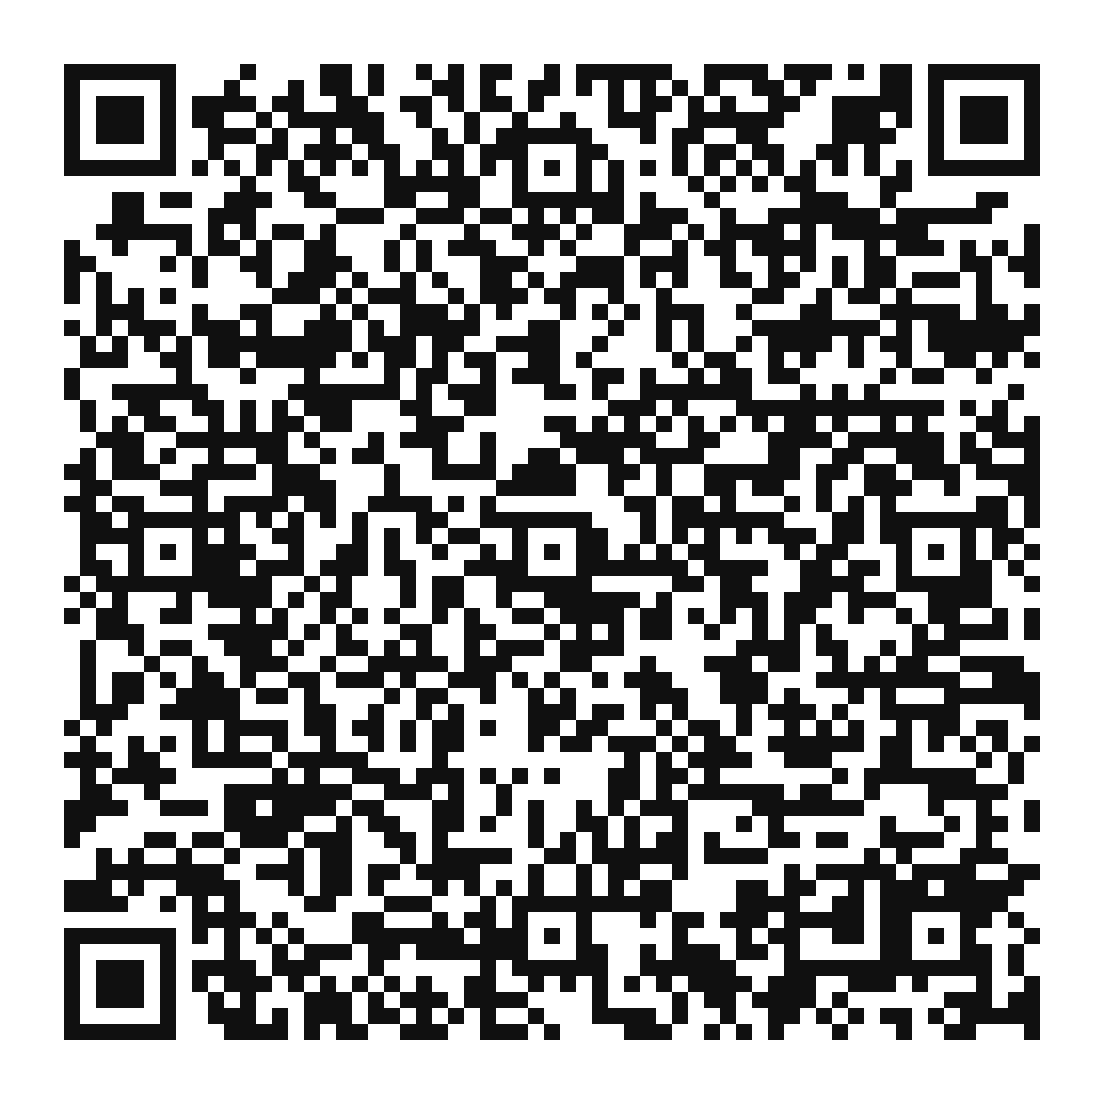
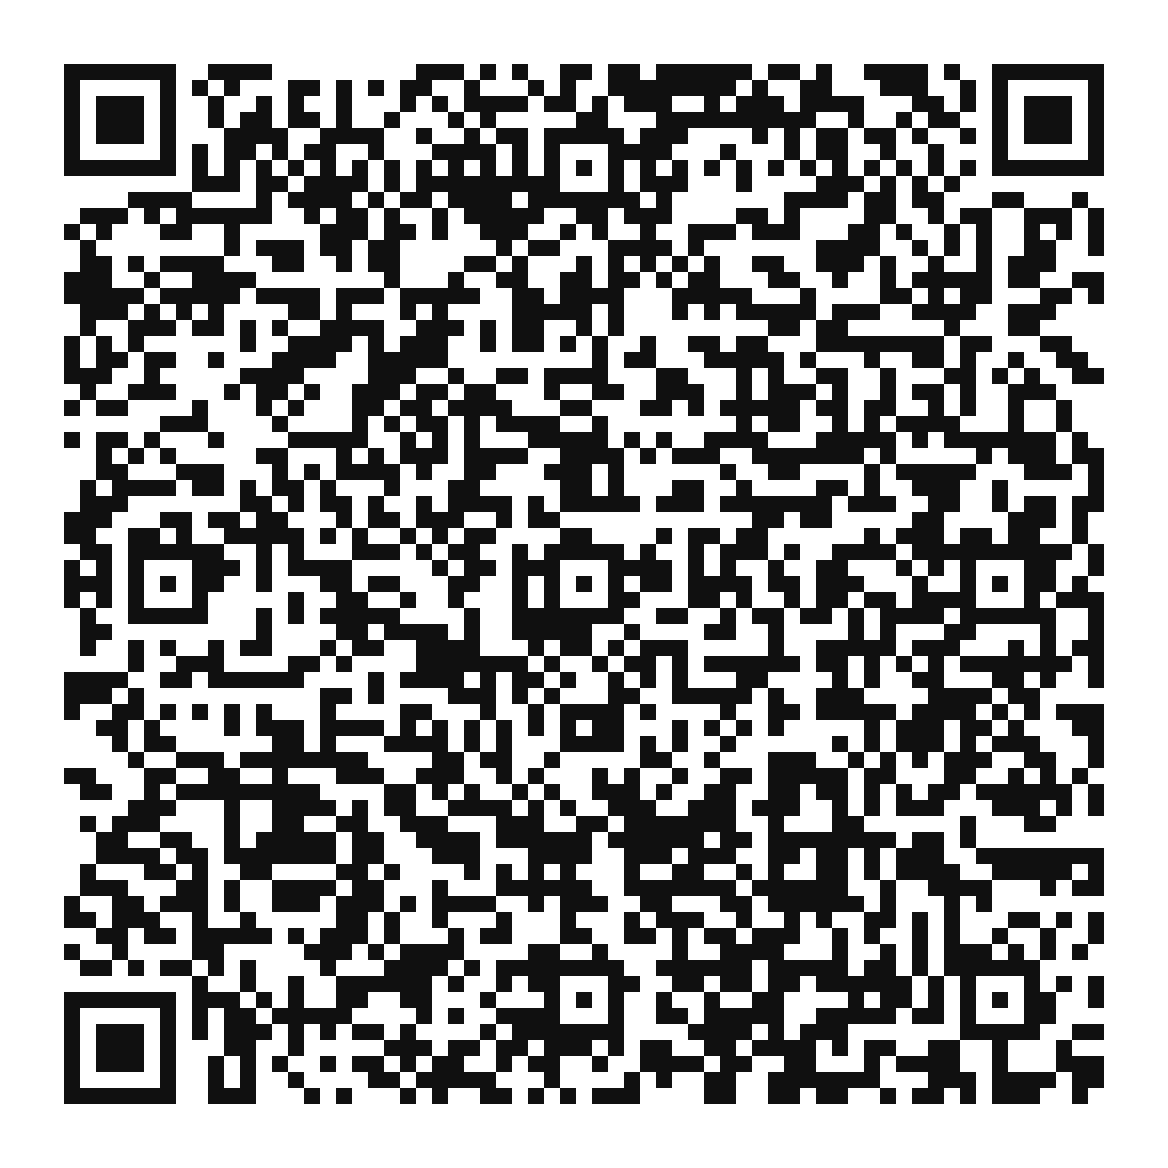
Rename flyer campaign to practice under pressure

diff --git a/site/campaign/practice-under-pressure.html b/site/campaign/practice-under-pressure.html
@@ -10,13 +10,13 @@
     <meta name="description" content="Pressure is part of life. Brazilian Jiu-Jitsu gives children and adults a place to practice what to do next.">
     <meta name="robots" content="noindex,nofollow">
     <!-- SEO FOUNDATION START -->
-    <link rel="canonical" href="https://joaocrusbjj.com/found-the-flyer/">
+    <link rel="canonical" href="https://joaocrusbjj.com/practice-under-pressure/">
     <meta property="og:title" content="Pressure Is Part of Life | Joao Crus BJJ">
     <meta property="og:description" content="Pressure is part of life. Brazilian Jiu-Jitsu gives children and adults a place to practice what to do next.">
     <meta property="og:type" content="website">
     <meta property="og:locale" content="en_US">
     <meta property="og:site_name" content="Joao Crus BJJ">
-    <meta property="og:url" content="https://joaocrusbjj.com/found-the-flyer/">
+    <meta property="og:url" content="https://joaocrusbjj.com/practice-under-pressure/">
     <meta property="og:image" content="https://joaocrusbjj.com/assets/campaign-images/adults-joao-coaching-hero-2026-07.webp">
     <meta property="og:image:alt" content="Pressure Is Part of Life | Joao Crus BJJ">
     <meta name="twitter:card" content="summary_large_image">

diff --git a/site/campaign/found-the-flyer-postcard.html b/site/campaign/found-the-flyer-postcard.html
@@ -44,9 +44,9 @@
         </div>
 
         <aside class="qr-panel">
-          <img class="qr" src="../assets/found-the-flyer/found-the-flyer-qr.svg" width="300" height="300" alt="QR code linking to the Joao Crus BJJ Found the Flyer page">
+          <img class="qr" src="../assets/found-the-flyer/found-the-flyer-qr.svg" width="300" height="300" alt="QR code linking to the Joao Crus BJJ Practice Under Pressure page">
           <p class="scan">SCAN ME</p>
-          <p class="short-url">joaocrusbjj.com/<br><strong>found-the-flyer</strong></p>
+          <p class="short-url">joaocrusbjj.com/<br><strong>practice-under-pressure</strong></p>
           <p class="phone">Call or text<br><strong>512-644-4560</strong></p>
         </aside>
 

diff --git a/scripts/validate_vercel_build.py b/scripts/validate_vercel_build.py
@@ -73,6 +73,7 @@ def main() -> None:
         check("'availability' => clean_value($data['availability']" in contact_source, "production endpoint must retain Teen schedule availability")
         htaccess = (DIST / ".htaccess").read_text(encoding="utf-8")
         redirect_targets = {
+            "found-the-flyer": "https://joaocrusbjj.com/practice-under-pressure/",
             "teens-preview": "https://joaocrusbjj.com/teens/",
             "1381-2": "https://joaocrusbjj.com/",
             "free-class": "https://joaocrusbjj.com/contact/",
@@ -301,22 +302,22 @@ def main() -> None:
             check('data-form-id="teens_interest"' in html, "/teens/: interest form needs a stable analytics ID")
             check('data-lead-type="teen_interest"' in html, "/teens/: interest form needs a teen-specific lead type")
             check('name="consent"' in html, "/teens/: interest form needs contact consent")
-        if page["path"] == "/found-the-flyer/":
+        if page["path"] == "/practice-under-pressure/":
             check(
                 "PRESSURE IS PART OF LIFE." in html and "PRACTICE WHAT TO DO NEXT." in html,
-                "/found-the-flyer/: approved pressure-response hero is missing",
+                "/practice-under-pressure/: approved pressure-response hero is missing",
             )
-            check("review-ribbon" not in html, "/found-the-flyer/: review ribbon remains")
-            check("data-video-placeholder" not in html, "/found-the-flyer/: unrecorded video control remains")
-            check("ff-play" not in html, "/found-the-flyer/: simulated video play control remains")
-            check("<dialog" not in html, "/found-the-flyer/: review video dialog remains")
+            check("review-ribbon" not in html, "/practice-under-pressure/: review ribbon remains")
+            check("data-video-placeholder" not in html, "/practice-under-pressure/: unrecorded video control remains")
+            check("ff-play" not in html, "/practice-under-pressure/: simulated video play control remains")
+            check("<dialog" not in html, "/practice-under-pressure/: review video dialog remains")
             check(
                 'data-form-id="found_the_flyer_pressure_v2"' in html,
-                "/found-the-flyer/: canonical form needs the stable campaign analytics ID",
+                "/practice-under-pressure/: canonical form needs the stable campaign analytics ID",
             )
-            check('data-lead-type="offline_flyer"' in html, "/found-the-flyer/: offline flyer lead type is missing")
-            check('name="consent"' in html, "/found-the-flyer/: contact consent is missing")
-            check('data-success-url="/thank-you/"' in html, "/found-the-flyer/: success route is missing")
+            check('data-lead-type="offline_flyer"' in html, "/practice-under-pressure/: offline flyer lead type is missing")
+            check('name="consent"' in html, "/practice-under-pressure/: contact consent is missing")
+            check('data-success-url="/thank-you/"' in html, "/practice-under-pressure/: success route is missing")
 
         for match in re.finditer(r'\b(?:href|src|action)=["\']([^"\']+)["\']', html, re.IGNORECASE):
             value = match.group(1)

diff --git a/scripts/generate_found_flyer_qr.py b/scripts/generate_found_flyer_qr.py
@@ -4,7 +4,7 @@ from qrcode.constants import ERROR_CORRECT_H
 from qrcode.image.svg import SvgPathImage
 
 TARGET = (
-    "https://joaocrusbjj.com/found-the-flyer/"
+    "https://joaocrusbjj.com/practice-under-pressure/"
     "?utm_source=car_flyer&utm_medium=offline&utm_campaign=found_the_flyer"
     "&utm_content=general_v1"
 )

diff --git a/docs/FOUND-THE-FLYER-CAMPAIGN-KIT.md b/docs/FOUND-THE-FLYER-CAMPAIGN-KIT.md
@@ -3,7 +3,7 @@
 **Status:** internal review, not live
 **Audience:** people who found a Joao Crus BJJ flyer or postcard on a parked car or at a local partner
 **Primary action:** scan the QR code, watch Joao's short welcome, request the right first class
-**Campaign URL:** `https://joaocrusbjj.com/found-the-flyer/`
+**Campaign URL:** `https://joaocrusbjj.com/practice-under-pressure/`
 
 ## Campaign idea
 
@@ -96,7 +96,7 @@ Use this cut for a reminder ad or the top of a lightweight follow-up page, not a
 - End card, 2–3 seconds:
   - **Find your first class**
   - Dripping Springs + Austin
-  - `joaocrusbjj.com/found-the-flyer/`
+  - `joaocrusbjj.com/practice-under-pressure/`
 - Export:
   - `found-the-flyer-joao-welcome-9x16.mp4`
   - `found-the-flyer-joao-welcome-4x5.mp4`
@@ -105,7 +105,7 @@ Use this cut for a reminder ad or the top of a lightweight follow-up page, not a
 
 ### Approved production direction
 
-- **Canonical landing page:** `/found-the-flyer/` uses approved pressure-response Iteration 2.
+- **Canonical landing page:** `/practice-under-pressure/` uses approved pressure-response Iteration 2. `/found-the-flyer/` remains a query-preserving 301 for previously generated or printed QR codes.
 - **Approved hero:** “Pressure is part of life. Practice what to do next.”
 - **Locked control:** `/found-the-flyer-control/` preserves the approved Iteration 2 for future comparisons.
 - Until the campaign video is recorded and approved, production uses a noninteractive coaching photograph. It must not display a play button or imply that video playback is available.
@@ -176,7 +176,7 @@ The HTML proof shows content and layout direction. Before a commercial print run
 ### QR destination
 
 ```text
-https://joaocrusbjj.com/found-the-flyer/?utm_source=car_flyer&utm_medium=offline&utm_campaign=found_the_flyer&utm_content=general_v1
+https://joaocrusbjj.com/practice-under-pressure/?utm_source=car_flyer&utm_medium=offline&utm_campaign=found_the_flyer&utm_content=general_v1
 ```
 
 Use a separate `utm_content` for every physical variation or placement batch:
@@ -236,7 +236,7 @@ Do not judge the campaign on QR scans alone.
 - [ ] Joao approves the campaign premise and exact humor.
 - [ ] Joao records the approved video and permissioned B-roll.
 - [ ] Final video files and captions replace the transparent placeholder.
-- [ ] The page route is published at `/found-the-flyer/` on the owned domain.
+- [ ] The page route is published at `/practice-under-pressure/` on the owned domain, with `/found-the-flyer/` retained as a 301 redirect.
 - [ ] Production form endpoint, HighLevel fields, tag, task, and owner notification are tested.
 - [ ] Privacy and Terms links resolve on the live domain.
 - [ ] GA4/GTM events are verified with consent granted and denied.

diff --git a/CURRENT-DECISIONS.md b/CURRENT-DECISIONS.md
@@ -27,9 +27,10 @@
 
 ---
 
-## Found the Flyer offline QR campaign (2026-08-12)
+## Practice Under Pressure offline QR campaign (updated 2026-08-13)
 
-- ✅ The approved canonical landing page is `/found-the-flyer/` using the pressure-response Iteration 2 message: **“Pressure is part of life. Practice what to do next.”**
+- ✅ The approved canonical landing page is `/practice-under-pressure/` using the pressure-response Iteration 2 message: **“Pressure is part of life. Practice what to do next.”**
+- ✅ `/found-the-flyer/` is the former campaign URL and must remain a one-hop, query-preserving 301 redirect to `/practice-under-pressure/` so existing QR codes and attribution parameters continue to work.
 - ✅ Preserve the flyer-curiosity version and prior pressure-response iterations as noindex comparison artifacts. The approved Iteration 2 becomes the locked control for future tests.
 - ✅ The canonical page uses the existing live inquiry handler, explicit call/text consent, shared attribution, and `/thank-you/` success routing. It asks for a recommended first-class starting point and does not imply that the form books or charges anything.
 - 🟡 Until Joao's approved campaign video is recorded, use an honest coaching photograph without a play button or simulated playback. The video script remains a production asset for a later release.
